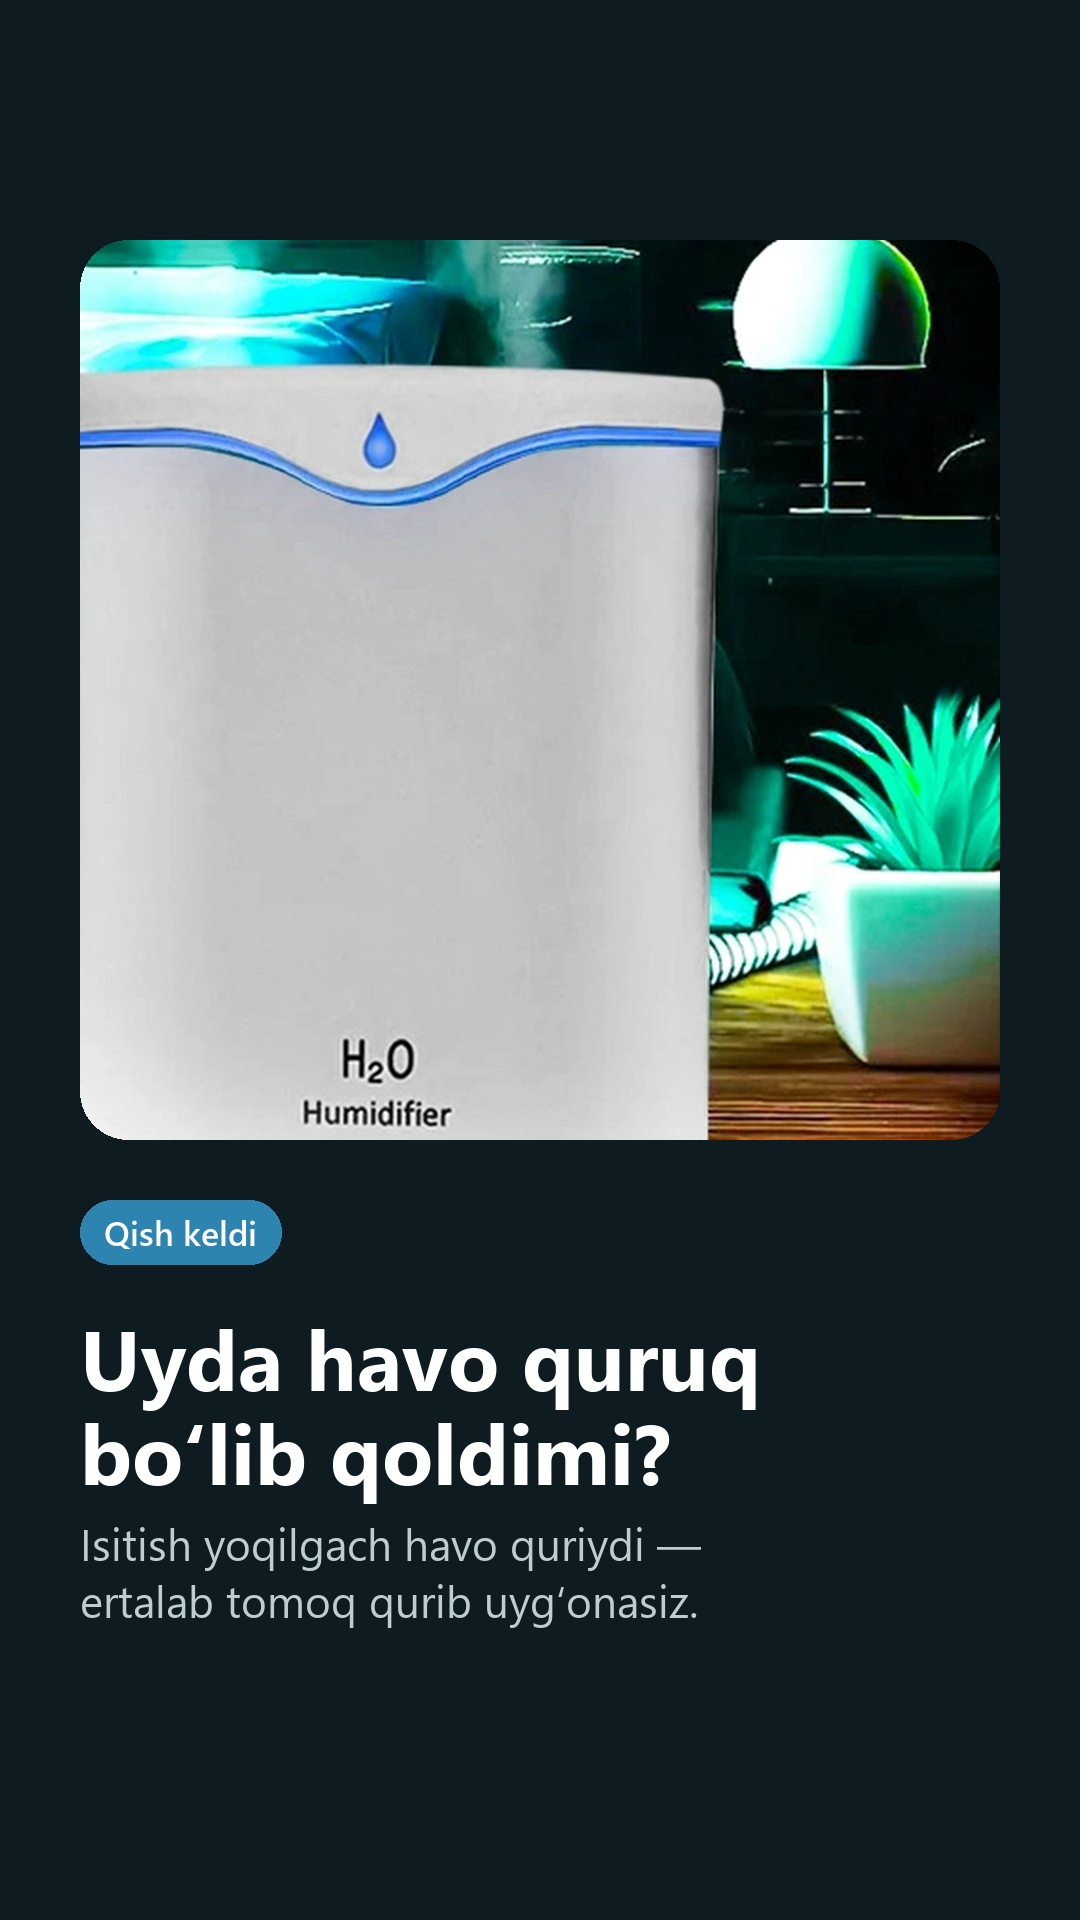
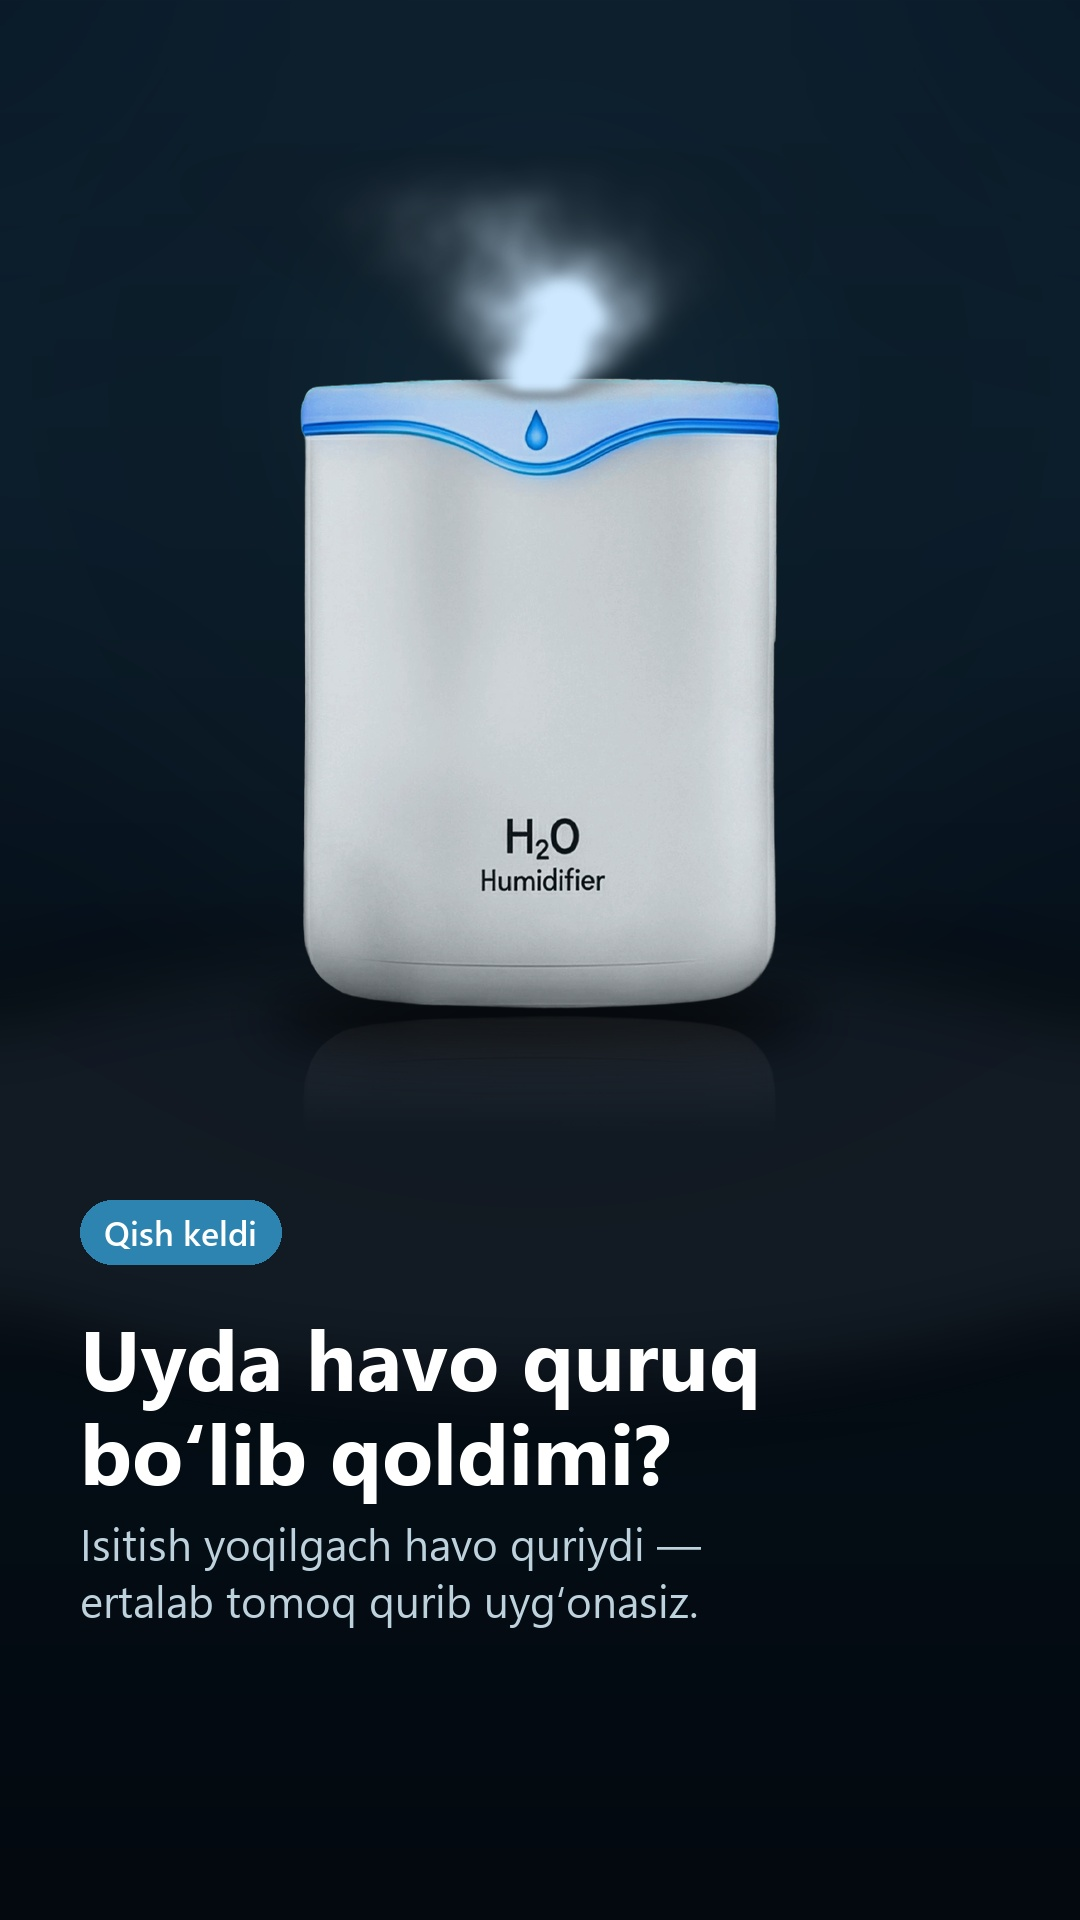
Увлажнитель: новые фото с паром первыми; новые сторис namlagich_1..4

diff --git a/namlagich/index.html b/namlagich/index.html
@@ -16,9 +16,8 @@
     <img src="1.jpg" alt="Havo namlagich, 2 litr" width="540" height="720">
     <img src="2.jpg" alt="Havo namlagich, 2 litr" loading="lazy" width="540" height="720">
     <img src="3.jpg" alt="Havo namlagich, 2 litr" loading="lazy" width="540" height="720">
-    <img src="4.jpg" alt="Havo namlagich, 2 litr" loading="lazy" width="540" height="720">
   </div>
-  <div class="dots"><i class="on"></i><i></i><i></i><i></i></div>
+  <div class="dots"><i class="on"></i><i></i><i></i></div>
   <h1>Havo namlagich, 2 litr</h1>
   <ul class="facts">
     <li>2 litr — 10 soatgacha suv quymasdan ishlaydi</li>
